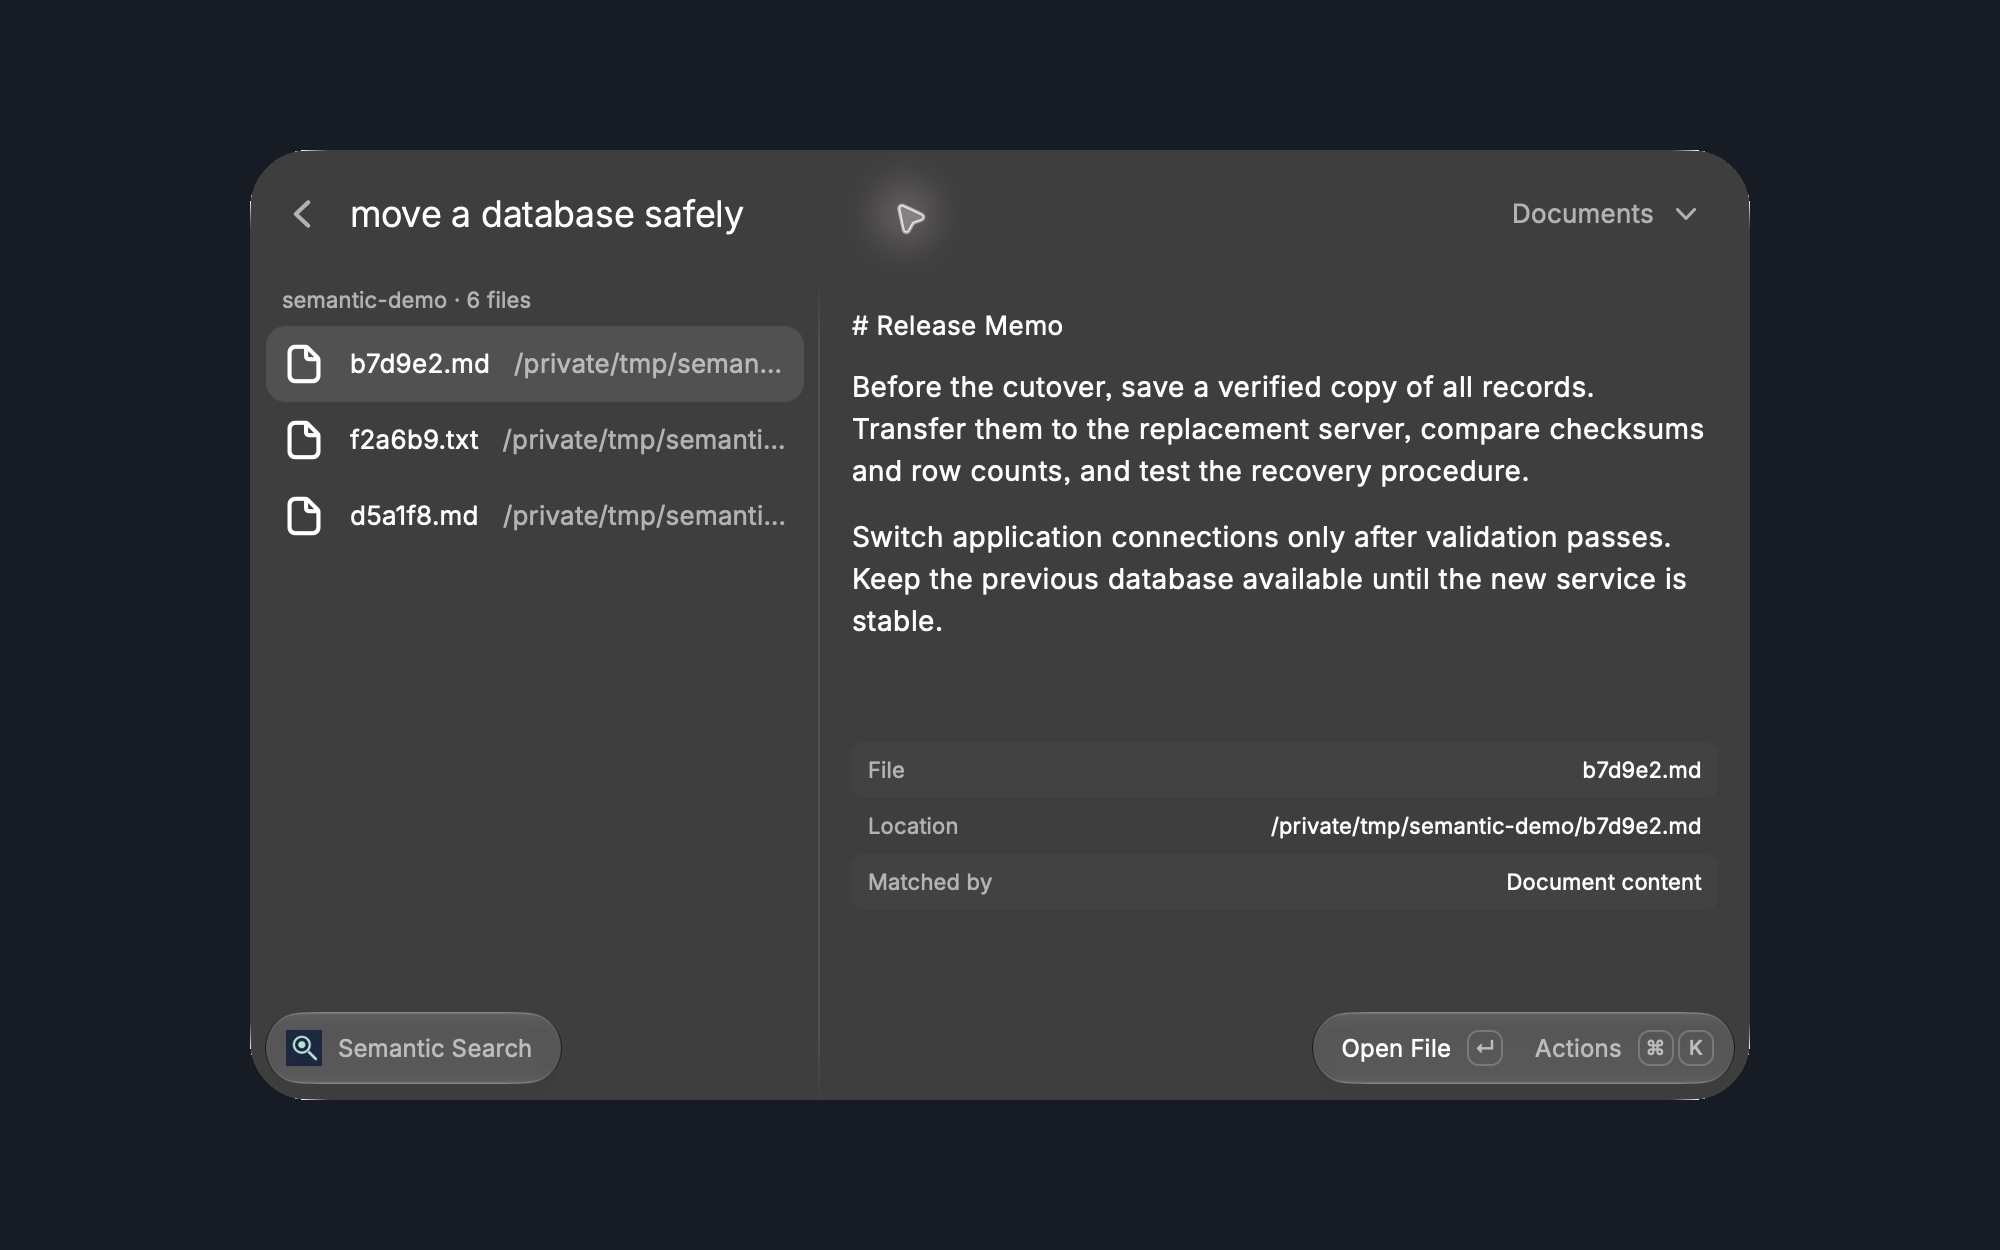
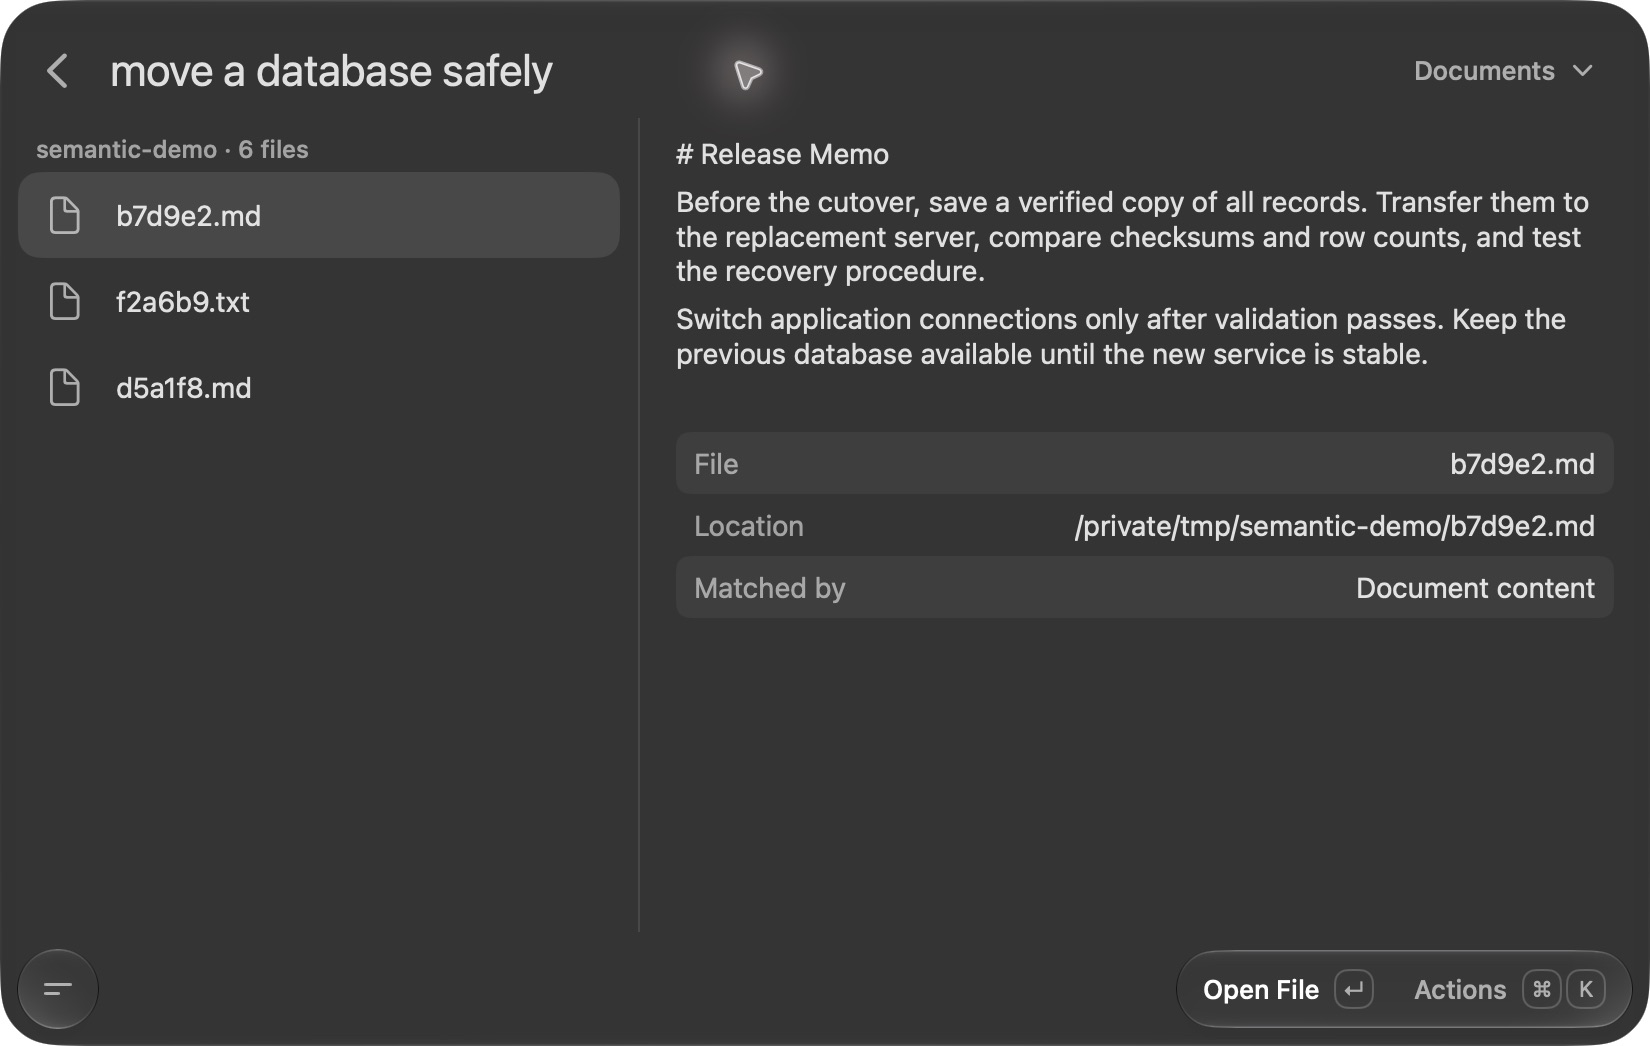
docs: show photo, document and audio searches in Tinycast

diff --git a/scripts/check_release.py b/scripts/check_release.py
@@ -12,6 +12,7 @@ PUBLIC_PNG_ASSETS = {
     "extension/assets/icon.png",
     "docs/screenshots/document-search.png",
     "docs/screenshots/photo-search.png",
+    "docs/screenshots/audio-search.png",
 }
 PATTERNS = {
     "personal absolute path": re.compile(r"/(?:Users|home)/[A-Za-z0-9_.-]+/"),

diff --git a/README.md b/README.md
@@ -6,15 +6,19 @@ Semantic Search finds documents, photos, video scenes and sounds by meaning. Des
 
 ## Preview
 
+Find a photograph by describing what is in it.
+
+![Searching for a bench at sunset finds a photograph with a generic filename](docs/screenshots/photo-search.png)
+
 Find a document by its contents, even when its filename gives no clues.
 
 ![Searching for safe database migration finds a document with a random filename](docs/screenshots/document-search.png)
 
-Find a photograph by describing what is in it.
+Find a recording by describing its sound, with a timestamp for the matching segment.
 
-![Searching for a white car finds the matching photograph with a random filename](docs/screenshots/photo-search.png)
+![Searching for a repeatedly beeping alarm finds a synthetic audio recording with a random filename](docs/screenshots/audio-search.png)
 
-These are real Raycast search results using synthetic documents and generated photographs.
+Examples shown in Tinycast. The document and audio examples use synthetic test files.
 
 ## How it works
 
